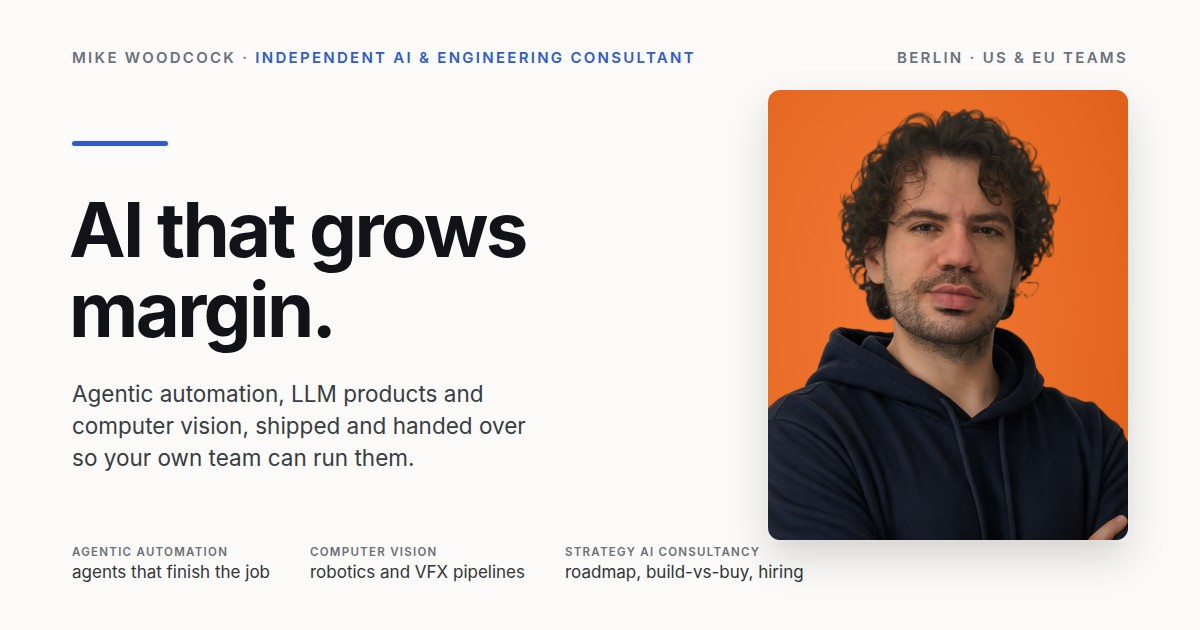
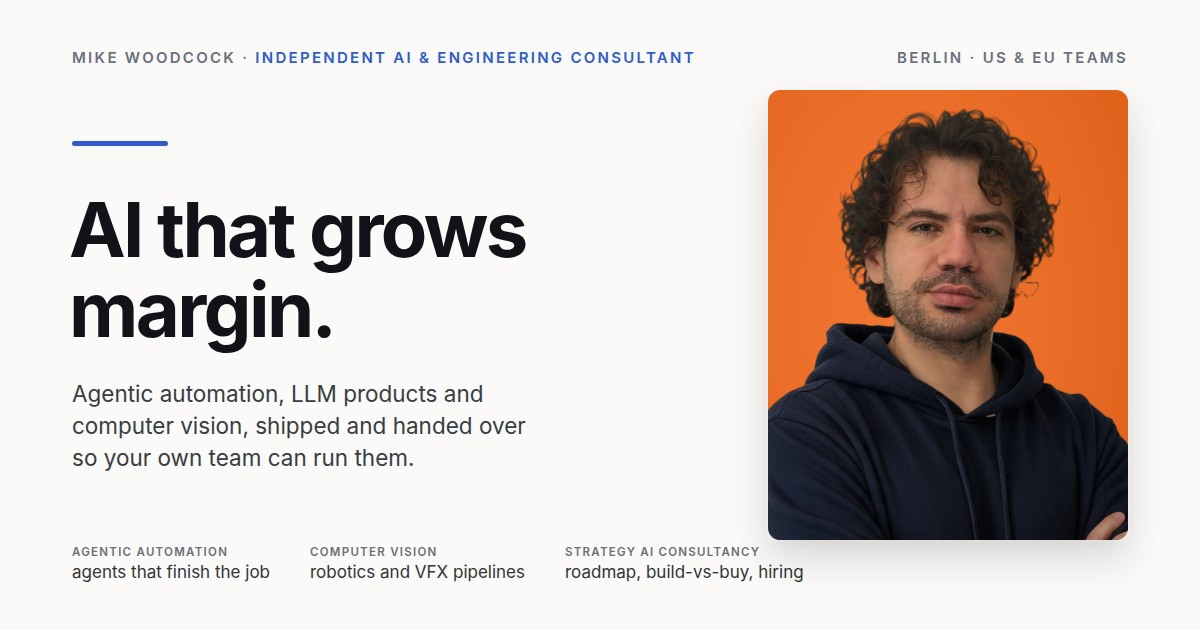
Link preview: hoodie + orange v3 (original face/beard/neck kept, neck line removed), og:image version 20261112c

diff --git a/index.html b/index.html
@@ -10,14 +10,14 @@
 <meta property="og:title" content="Mike Woodcock — AI that grows margin">
 <meta property="og:description" content="Independent AI &amp; engineering consultant. Agentic automation, LLM products and computer vision, shipped and handed over so your own team can run them.">
 <meta property="og:url" content="https://mikew.io/">
-<meta property="og:image" content="https://mikew.io/og.jpg?v=20261112b">
+<meta property="og:image" content="https://mikew.io/og.jpg?v=20261112c">
 <meta property="og:image:width" content="1200">
 <meta property="og:image:height" content="630">
 <meta property="og:image:alt" content="Mike Woodcock, independent AI and engineering consultant. AI that grows margin.">
 <meta name="twitter:card" content="summary_large_image">
 <meta name="twitter:title" content="Mike Woodcock — AI that grows margin">
 <meta name="twitter:description" content="Independent AI &amp; engineering consultant. Agentic automation, LLM products and computer vision, shipped to production for startups.">
-<meta name="twitter:image" content="https://mikew.io/og.jpg?v=20261112b">
+<meta name="twitter:image" content="https://mikew.io/og.jpg?v=20261112c">
 <meta name="theme-color" content="#fbfaf8">
 <link rel="canonical" href="https://mikew.io/">
 <link rel="icon" href="/favicon.ico">

diff --git a/vfx/index.html b/vfx/index.html
@@ -13,7 +13,7 @@
 <meta property="og:url" content="https://mikew.io/vfx/">
 <meta property="og:title" content="Set to Screen · Mike Woodcock">
 <meta property="og:description" content="Computer vision for virtual production, from camera to coordinates to Gaussian splats to the LED wall.">
-<meta property="og:image" content="https://mikew.io/og.jpg?v=20261112b">
+<meta property="og:image" content="https://mikew.io/og.jpg?v=20261112c">
 <meta name="twitter:card" content="summary_large_image">
 <meta name="description" content="Mike Woodcock: computer vision for virtual production, from camera to coordinates to Gaussian splats to the LED wall.">
 <link rel="preconnect" href="https://fonts.googleapis.com">

diff --git a/about/index.html b/about/index.html
@@ -14,7 +14,7 @@
 <meta property="og:url" content="https://mikew.io/about/">
 <meta property="og:title" content="About Mike Woodcock">
 <meta property="og:description" content="Ten years of turning research into things that run: Edinburgh, Kopernikus and Ford, SellerX, and independent since 2026.">
-<meta property="og:image" content="https://mikew.io/og.jpg?v=20261112b">
+<meta property="og:image" content="https://mikew.io/og.jpg?v=20261112c">
 <meta name="twitter:card" content="summary_large_image">
 <style>
 :root{
